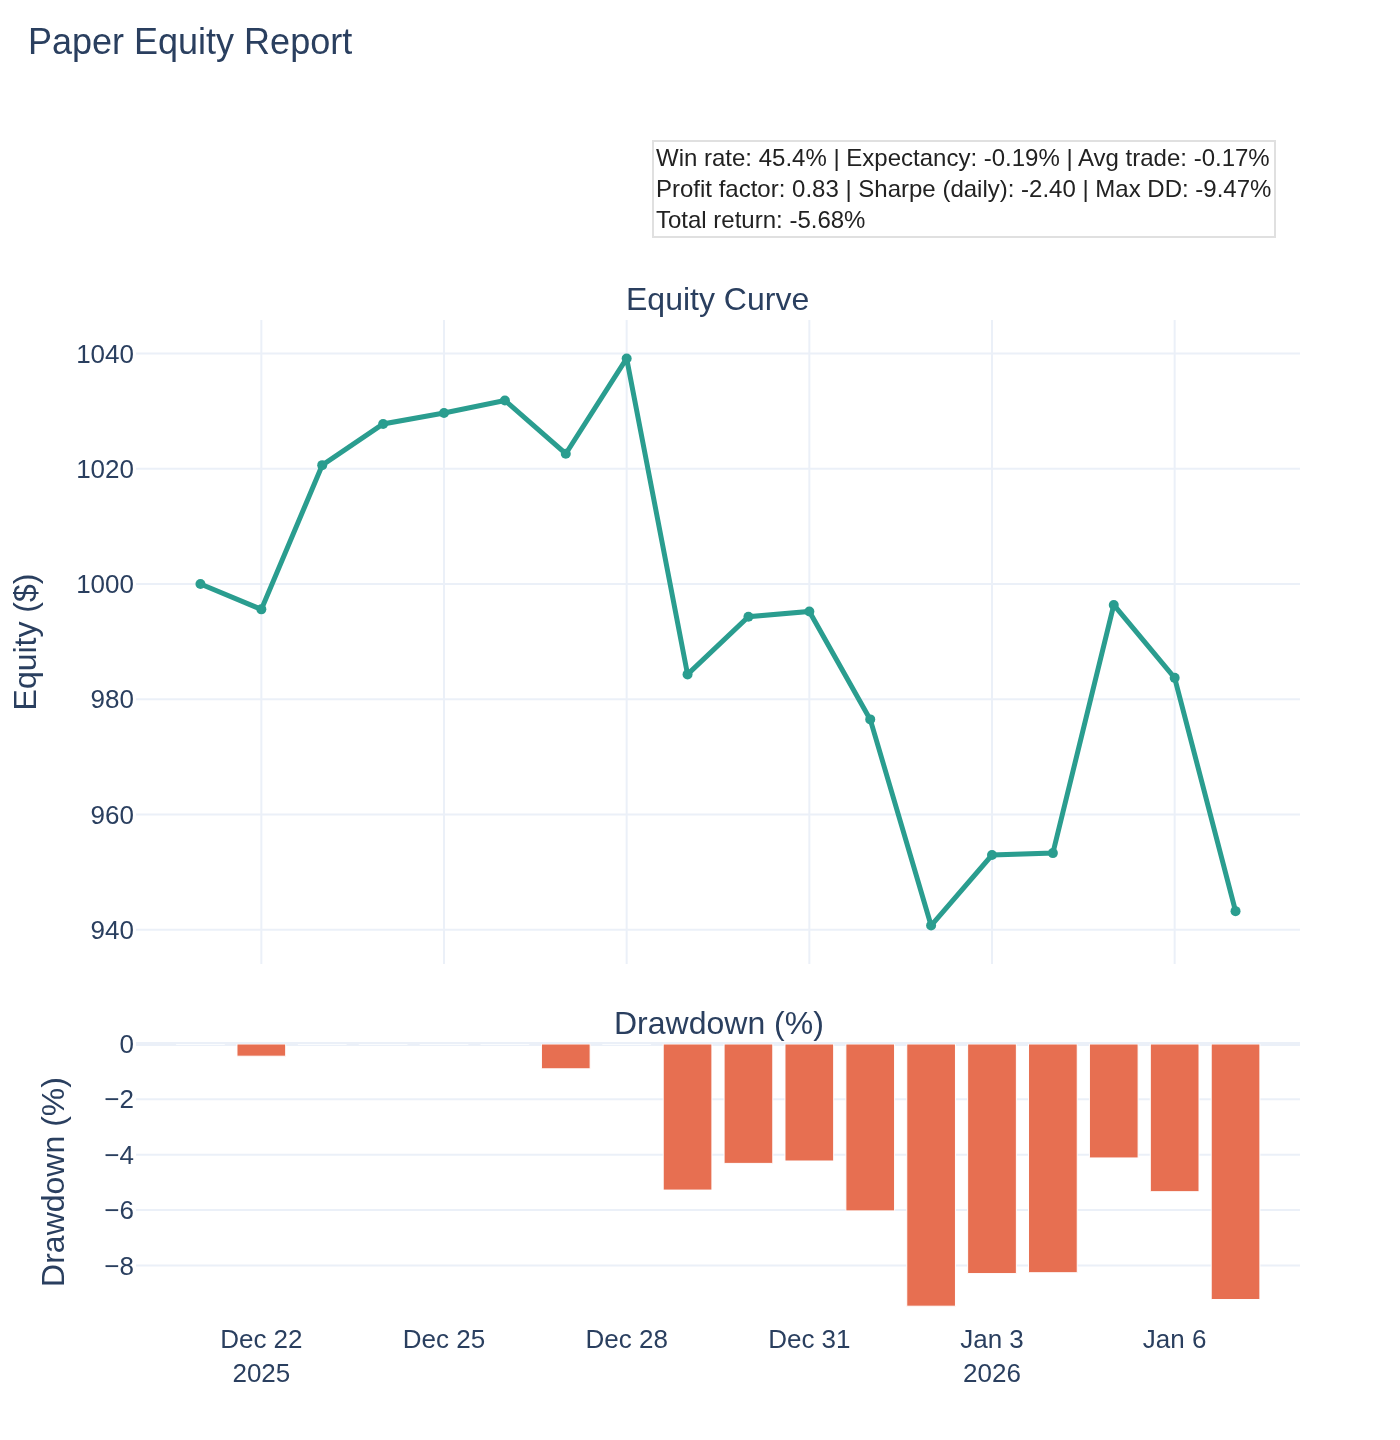
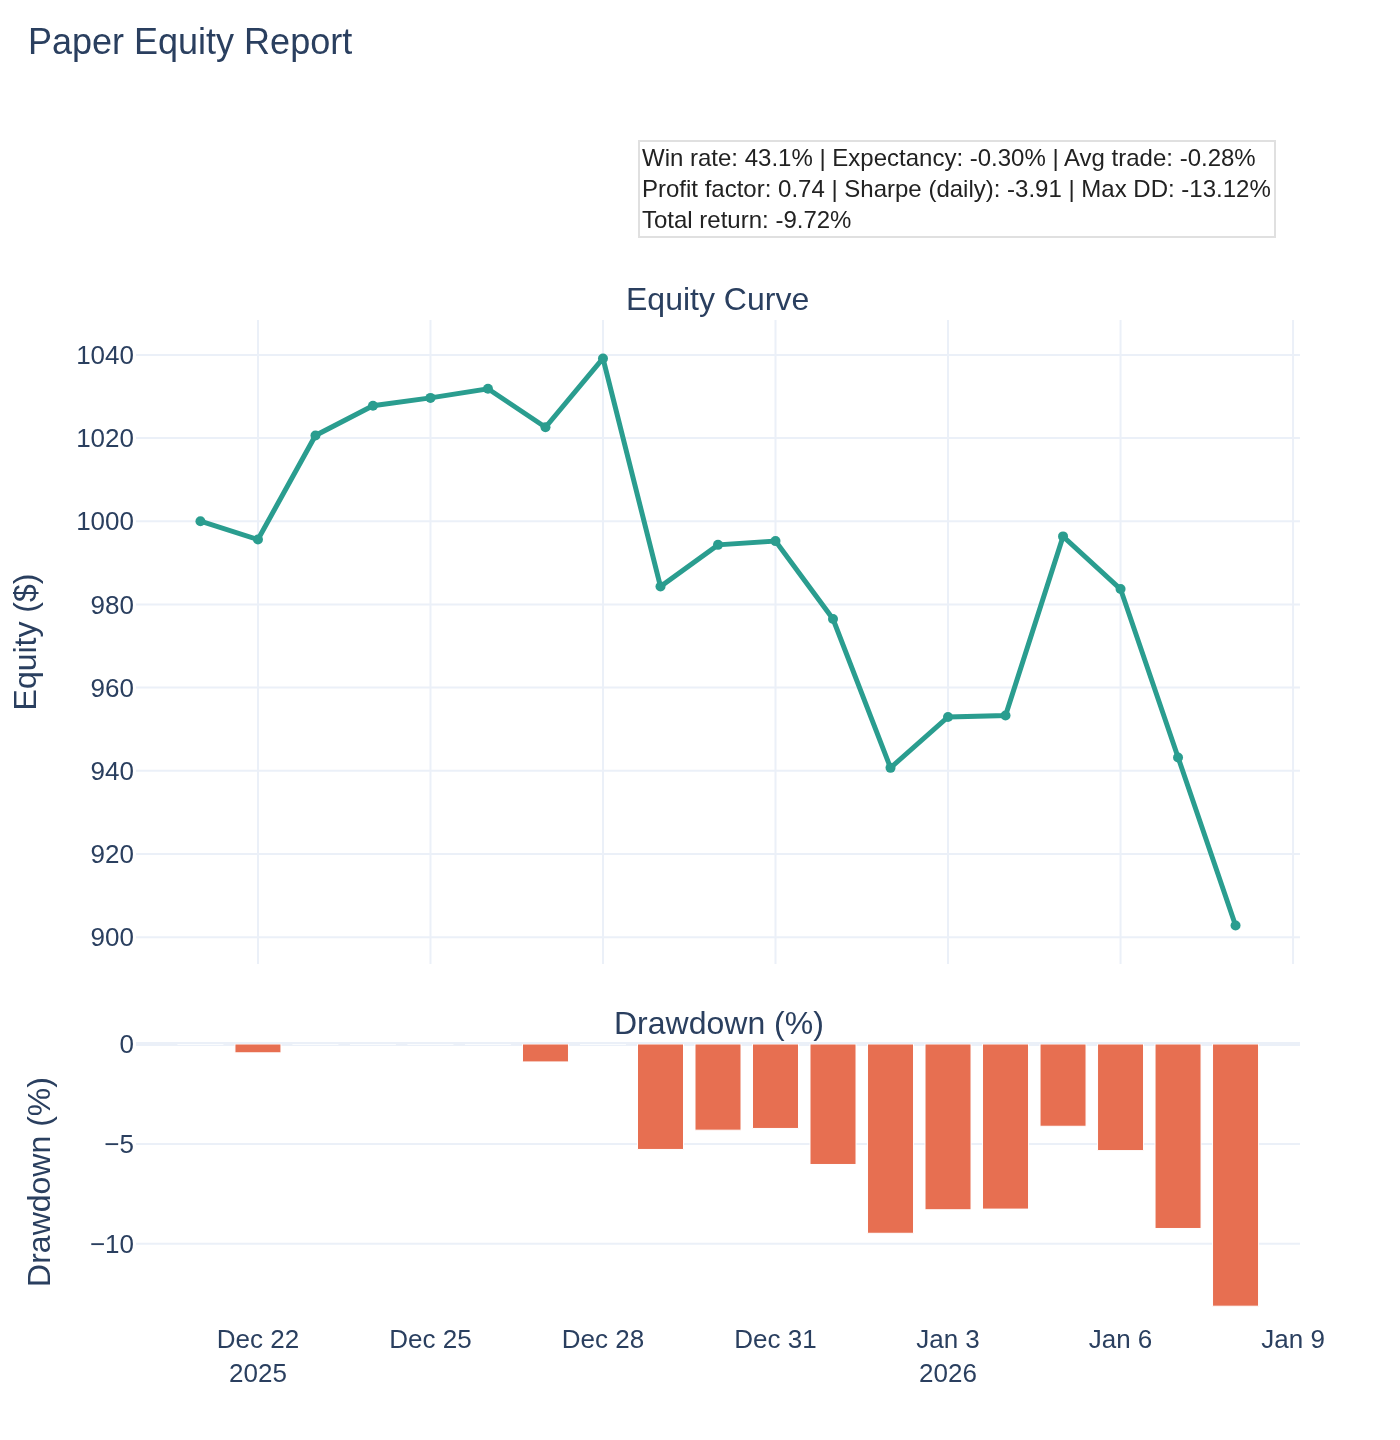
Update equity reports and trade logs

diff --git a/reports/paper_equity_report.html b/reports/paper_equity_report.html
@@ -2,6 +2,6 @@
 <head><meta charset="utf-8" /></head>
 <body>
     <div>                        <script type="text/javascript">window.PlotlyConfig = {MathJaxConfig: 'local'};</script>
[1 lines of base64/hex data omitted]
+        <script charset="utf-8" src="https://cdn.plot.ly/plotly-3.3.0.min.js" integrity="sha256-bO3dS6yCpk9aK4gUpNELtCiDeSYvGYnK7jFI58NQnHI=" crossorigin="anonymous"></script>                <div id="f04766e9-3f8f-455a-b01c-c1f134ad0bd2" class="plotly-graph-div" style="height:720px; width:100%;"></div>            <script type="text/javascript">                window.PLOTLYENV=window.PLOTLYENV || {};                                if (document.getElementById("f04766e9-3f8f-455a-b01c-c1f134ad0bd2")) {                    Plotly.newPlot(                        "f04766e9-3f8f-455a-b01c-c1f134ad0bd2",                        [{"line":{"color":"#2a9d8f","width":2.5},"marker":{"color":"#2a9d8f","size":5},"mode":"lines+markers","name":"Equity","x":["2025-12-21","2025-12-22","2025-12-23","2025-12-24","2025-12-25","2025-12-26","2025-12-27","2025-12-28","2025-12-29","2025-12-30","2025-12-31","2026-01-01","2026-01-02","2026-01-03","2026-01-04","2026-01-05","2026-01-06","2026-01-07","2026-01-08"],"y":{"dtype":"f8","bdata":"AAAAAABAj0AfhetRuByPQClcj8L15I9ArkfhehQPkEBxPQrXoxaQQGZmZmZmH5BAzczMzMz0j0DD9ShcjzyQQGZmZmZmwo5Aw\u002fUoXI8Sj0D2KFyPwhmPQFK4HoXrg45ASOF6FK5ljUCamZmZmceNQArXo3A9yo1AexSuR+Eij0CamZmZmb2OQEjhehSueY1AuB6F61E2jEA="},"type":"scatter","xaxis":"x","yaxis":"y"},{"marker":{"color":"#e76f51"},"name":"Drawdown","x":["2025-12-21","2025-12-22","2025-12-23","2025-12-24","2025-12-25","2025-12-26","2025-12-27","2025-12-28","2025-12-29","2025-12-30","2025-12-31","2026-01-01","2026-01-02","2026-01-03","2026-01-04","2026-01-05","2026-01-06","2026-01-07","2026-01-08"],"y":{"dtype":"f8","bdata":"AAAAAAAAAACZTWIQWDncvwAAAAAAAAAAAAAAAAAAAAAAAAAAAAAAAAAAAAAAAAAAF3eV+7Ov7L8AAAAAAAAAAKu7tHsZHBXAUTfly7JAEcBbhLh7AugQwAzHtXe4HRjACF2dhsvxIsCcNToytpYgwK3yIL1zhiDAMSrEr6t3EMCc3SexOVcVwOaA7cGddiLAS\u002fU5uSs+KsA="},"type":"bar","xaxis":"x2","yaxis":"y2"}],                        {"template":{"data":{"barpolar":[{"marker":{"line":{"color":"white","width":0.5},"pattern":{"fillmode":"overlay","size":10,"solidity":0.2}},"type":"barpolar"}],"bar":[{"error_x":{"color":"#2a3f5f"},"error_y":{"color":"#2a3f5f"},"marker":{"line":{"color":"white","width":0.5},"pattern":{"fillmode":"overlay","size":10,"solidity":0.2}},"type":"bar"}],"carpet":[{"aaxis":{"endlinecolor":"#2a3f5f","gridcolor":"#C8D4E3","linecolor":"#C8D4E3","minorgridcolor":"#C8D4E3","startlinecolor":"#2a3f5f"},"baxis":{"endlinecolor":"#2a3f5f","gridcolor":"#C8D4E3","linecolor":"#C8D4E3","minorgridcolor":"#C8D4E3","startlinecolor":"#2a3f5f"},"type":"carpet"}],"choropleth":[{"colorbar":{"outlinewidth":0,"ticks":""},"type":"choropleth"}],"contourcarpet":[{"colorbar":{"outlinewidth":0,"ticks":""},"type":"contourcarpet"}],"contour":[{"colorbar":{"outlinewidth":0,"ticks":""},"colorscale":[[0.0,"#0d0887"],[0.1111111111111111,"#46039f"],[0.2222222222222222,"#7201a8"],[0.3333333333333333,"#9c179e"],[0.4444444444444444,"#bd3786"],[0.5555555555555556,"#d8576b"],[0.6666666666666666,"#ed7953"],[0.7777777777777778,"#fb9f3a"],[0.8888888888888888,"#fdca26"],[1.0,"#f0f921"]],"type":"contour"}],"heatmap":[{"colorbar":{"outlinewidth":0,"ticks":""},"colorscale":[[0.0,"#0d0887"],[0.1111111111111111,"#46039f"],[0.2222222222222222,"#7201a8"],[0.3333333333333333,"#9c179e"],[0.4444444444444444,"#bd3786"],[0.5555555555555556,"#d8576b"],[0.6666666666666666,"#ed7953"],[0.7777777777777778,"#fb9f3a"],[0.8888888888888888,"#fdca26"],[1.0,"#f0f921"]],"type":"heatmap"}],"histogram2dcontour":[{"colorbar":{"outlinewidth":0,"ticks":""},"colorscale":[[0.0,"#0d0887"],[0.1111111111111111,"#46039f"],[0.2222222222222222,"#7201a8"],[0.3333333333333333,"#9c179e"],[0.4444444444444444,"#bd3786"],[0.5555555555555556,"#d8576b"],[0.6666666666666666,"#ed7953"],[0.7777777777777778,"#fb9f3a"],[0.8888888888888888,"#fdca26"],[1.0,"#f0f921"]],"type":"histogram2dcontour"}],"histogram2d":[{"colorbar":{"outlinewidth":0,"ticks":""},"colorscale":[[0.0,"#0d0887"],[0.1111111111111111,"#46039f"],[0.2222222222222222,"#7201a8"],[0.3333333333333333,"#9c179e"],[0.4444444444444444,"#bd3786"],[0.5555555555555556,"#d8576b"],[0.6666666666666666,"#ed7953"],[0.7777777777777778,"#fb9f3a"],[0.8888888888888888,"#fdca26"],[1.0,"#f0f921"]],"type":"histogram2d"}],"histogram":[{"marker":{"pattern":{"fillmode":"overlay","size":10,"solidity":0.2}},"type":"histogram"}],"mesh3d":[{"colorbar":{"outlinewidth":0,"ticks":""},"type":"mesh3d"}],"parcoords":[{"line":{"colorbar":{"outlinewidth":0,"ticks":""}},"type":"parcoords"}],"pie":[{"automargin":true,"type":"pie"}],"scatter3d":[{"line":{"colorbar":{"outlinewidth":0,"ticks":""}},"marker":{"colorbar":{"outlinewidth":0,"ticks":""}},"type":"scatter3d"}],"scattercarpet":[{"marker":{"colorbar":{"outlinewidth":0,"ticks":""}},"type":"scattercarpet"}],"scattergeo":[{"marker":{"colorbar":{"outlinewidth":0,"ticks":""}},"type":"scattergeo"}],"scattergl":[{"marker":{"colorbar":{"outlinewidth":0,"ticks":""}},"type":"scattergl"}],"scattermapbox":[{"marker":{"colorbar":{"outlinewidth":0,"ticks":""}},"type":"scattermapbox"}],"scattermap":[{"marker":{"colorbar":{"outlinewidth":0,"ticks":""}},"type":"scattermap"}],"scatterpolargl":[{"marker":{"colorbar":{"outlinewidth":0,"ticks":""}},"type":"scatterpolargl"}],"scatterpolar":[{"marker":{"colorbar":{"outlinewidth":0,"ticks":""}},"type":"scatterpolar"}],"scatter":[{"fillpattern":{"fillmode":"overlay","size":10,"solidity":0.2},"type":"scatter"}],"scatterternary":[{"marker":{"colorbar":{"outlinewidth":0,"ticks":""}},"type":"scatterternary"}],"surface":[{"colorbar":{"outlinewidth":0,"ticks":""},"colorscale":[[0.0,"#0d0887"],[0.1111111111111111,"#46039f"],[0.2222222222222222,"#7201a8"],[0.3333333333333333,"#9c179e"],[0.4444444444444444,"#bd3786"],[0.5555555555555556,"#d8576b"],[0.6666666666666666,"#ed7953"],[0.7777777777777778,"#fb9f3a"],[0.8888888888888888,"#fdca26"],[1.0,"#f0f921"]],"type":"surface"}],"table":[{"cells":{"fill":{"color":"#EBF0F8"},"line":{"color":"white"}},"header":{"fill":{"color":"#C8D4E3"},"line":{"color":"white"}},"type":"table"}]},"layout":{"annotationdefaults":{"arrowcolor":"#2a3f5f","arrowhead":0,"arrowwidth":1},"autotypenumbers":"strict","coloraxis":{"colorbar":{"outlinewidth":0,"ticks":""}},"colorscale":{"diverging":[[0,"#8e0152"],[0.1,"#c51b7d"],[0.2,"#de77ae"],[0.3,"#f1b6da"],[0.4,"#fde0ef"],[0.5,"#f7f7f7"],[0.6,"#e6f5d0"],[0.7,"#b8e186"],[0.8,"#7fbc41"],[0.9,"#4d9221"],[1,"#276419"]],"sequential":[[0.0,"#0d0887"],[0.1111111111111111,"#46039f"],[0.2222222222222222,"#7201a8"],[0.3333333333333333,"#9c179e"],[0.4444444444444444,"#bd3786"],[0.5555555555555556,"#d8576b"],[0.6666666666666666,"#ed7953"],[0.7777777777777778,"#fb9f3a"],[0.8888888888888888,"#fdca26"],[1.0,"#f0f921"]],"sequentialminus":[[0.0,"#0d0887"],[0.1111111111111111,"#46039f"],[0.2222222222222222,"#7201a8"],[0.3333333333333333,"#9c179e"],[0.4444444444444444,"#bd3786"],[0.5555555555555556,"#d8576b"],[0.6666666666666666,"#ed7953"],[0.7777777777777778,"#fb9f3a"],[0.8888888888888888,"#fdca26"],[1.0,"#f0f921"]]},"colorway":["#636efa","#EF553B","#00cc96","#ab63fa","#FFA15A","#19d3f3","#FF6692","#B6E880","#FF97FF","#FECB52"],"font":{"color":"#2a3f5f"},"geo":{"bgcolor":"white","lakecolor":"white","landcolor":"white","showlakes":true,"showland":true,"subunitcolor":"#C8D4E3"},"hoverlabel":{"align":"left"},"hovermode":"closest","mapbox":{"style":"light"},"paper_bgcolor":"white","plot_bgcolor":"white","polar":{"angularaxis":{"gridcolor":"#EBF0F8","linecolor":"#EBF0F8","ticks":""},"bgcolor":"white","radialaxis":{"gridcolor":"#EBF0F8","linecolor":"#EBF0F8","ticks":""}},"scene":{"xaxis":{"backgroundcolor":"white","gridcolor":"#DFE8F3","gridwidth":2,"linecolor":"#EBF0F8","showbackground":true,"ticks":"","zerolinecolor":"#EBF0F8"},"yaxis":{"backgroundcolor":"white","gridcolor":"#DFE8F3","gridwidth":2,"linecolor":"#EBF0F8","showbackground":true,"ticks":"","zerolinecolor":"#EBF0F8"},"zaxis":{"backgroundcolor":"white","gridcolor":"#DFE8F3","gridwidth":2,"linecolor":"#EBF0F8","showbackground":true,"ticks":"","zerolinecolor":"#EBF0F8"}},"shapedefaults":{"line":{"color":"#2a3f5f"}},"ternary":{"aaxis":{"gridcolor":"#DFE8F3","linecolor":"#A2B1C6","ticks":""},"baxis":{"gridcolor":"#DFE8F3","linecolor":"#A2B1C6","ticks":""},"bgcolor":"white","caxis":{"gridcolor":"#DFE8F3","linecolor":"#A2B1C6","ticks":""}},"title":{"x":0.05},"xaxis":{"automargin":true,"gridcolor":"#EBF0F8","linecolor":"#EBF0F8","ticks":"","title":{"standoff":15},"zerolinecolor":"#EBF0F8","zerolinewidth":2},"yaxis":{"automargin":true,"gridcolor":"#EBF0F8","linecolor":"#EBF0F8","ticks":"","title":{"standoff":15},"zerolinecolor":"#EBF0F8","zerolinewidth":2}}},"xaxis":{"anchor":"y","domain":[0.0,1.0],"matches":"x2","showticklabels":false},"yaxis":{"anchor":"x","domain":[0.35600000000000004,1.0],"title":{"text":"Equity ($)"}},"xaxis2":{"anchor":"y2","domain":[0.0,1.0]},"yaxis2":{"anchor":"x2","domain":[0.0,0.276],"title":{"text":"Drawdown (%)"}},"annotations":[{"font":{"size":16},"showarrow":false,"text":"Equity Curve","x":0.5,"xanchor":"center","xref":"paper","y":1.0,"yanchor":"bottom","yref":"paper"},{"font":{"size":16},"showarrow":false,"text":"Drawdown (%)","x":0.5,"xanchor":"center","xref":"paper","y":0.276,"yanchor":"bottom","yref":"paper"},{"align":"left","bgcolor":"rgba(255,255,255,0.9)","bordercolor":"#e0e0e0","borderwidth":1,"font":{"color":"#222","size":12},"showarrow":false,"text":"Win rate: 43.1% | Expectancy: -0.30% | Avg trade: -0.28%\u003cbr\u003eProfit factor: 0.74 | Sharpe (daily): -3.91 | Max DD: -13.12%\u003cbr\u003eTotal return: -9.72%","x":0.98,"xanchor":"right","xref":"paper","y":1.18,"yanchor":"top","yref":"paper"}],"title":{"text":"Paper Equity Report","x":0.02,"xanchor":"left","y":0.98,"yanchor":"top"},"margin":{"l":50,"r":50,"t":160,"b":60},"font":{"size":13},"height":720,"showlegend":false},                        {"responsive": true}                    )                };            </script>        </div>
 </body>
 </html>
